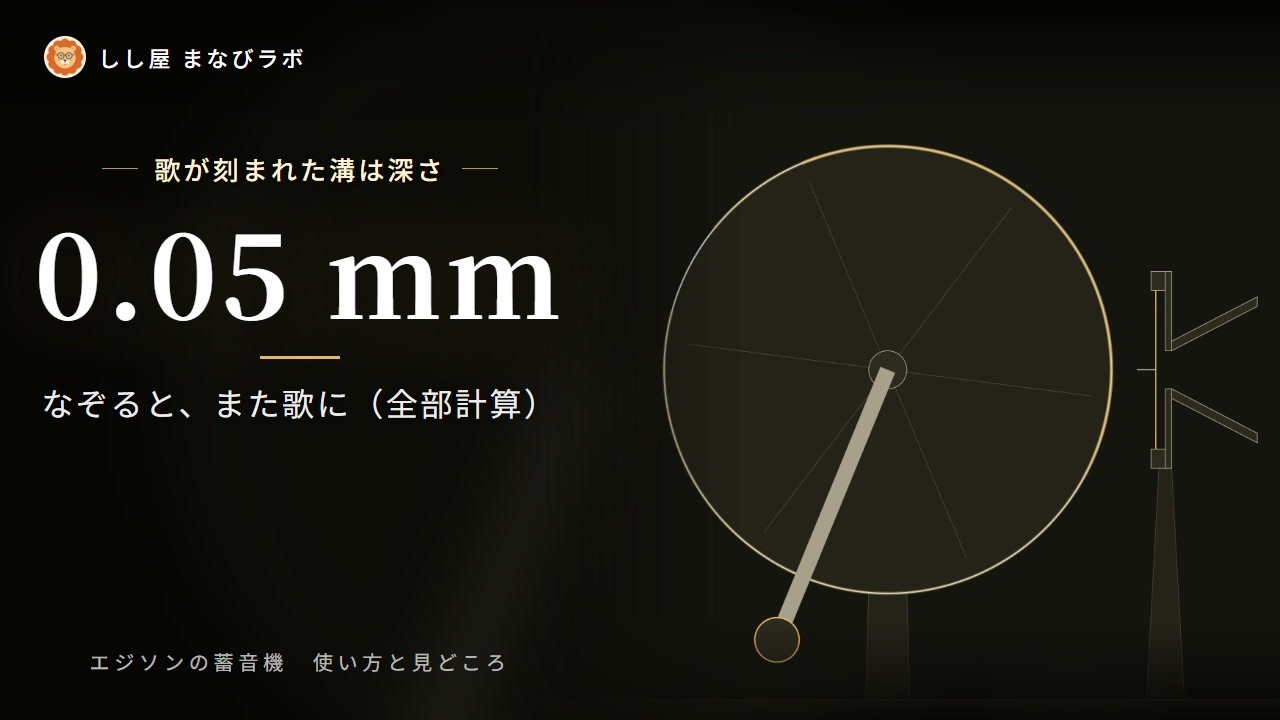
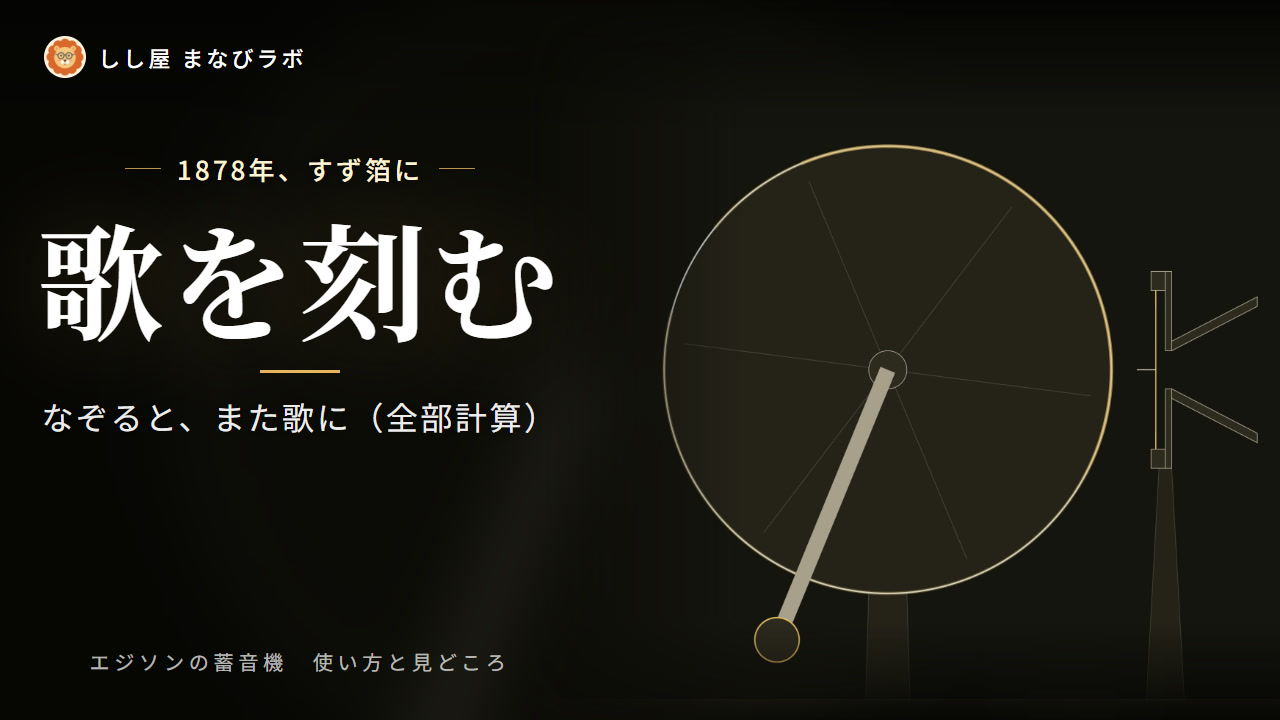
エジソンの蓄音機: 紹介動画のサムネイルの言葉を「歌を刻む」に（ユーザーが6案から選んだ）。YouTube の2本も差しかえ

Changed region(s): [[0.0312, 0.3056, 0.4375, 0.6111], [0.0938, 0.2139, 0.3438, 0.275]]

diff --git a/_dev/promo/short-thumbs.js b/_dev/promo/short-thumbs.js
@@ -31,5 +31,5 @@ window.SHORT_THUMBS = {
   'typing-hand':   { name: 'タイピングする手', t: 18, focus: [0.5, 0.36], zoom: 1.35, kicker: 'キーを打つとき、皮ふの下で', big: '骨と筋肉', sub: 'はこう動く（計算した動き）', c1: '#fff0e6', c2: '#ff8a5c' },
   'wave-growth':   { name: '波が育つまで', t: 31, focus: [0.5, 0.42], zoom: 1.3, kicker: '凪の海に風が吹いて', big: '約30時間', sub: 'で育ちきる。高さ 3.1 m', c1: '#fff3d6', c2: '#ffc46b' },
   'crt-pixels':    { name: 'ブラウン管のドット絵', t: 14.35, focus: [0.5, 0.44], zoom: 1.2, wmask: false, kicker: '同じドット絵、左は液晶', big: 'ブラウン管', sub: 'だと、こう見えた（計算で再現）', c1: '#e8fff0', c2: '#7fe0a0' },
-  'phonograph':    { name: 'エジソンの蓄音機', t: 20.3, focus: [0.45, 0.31], zoom: 1.3, kicker: '歌が刻まれた溝は深さ', big: '0.05 mm', sub: 'なぞると、また歌に（全部計算）', c1: '#fff3d6', c2: '#e8b860' }
+  'phonograph':    { name: 'エジソンの蓄音機', t: 20.3, focus: [0.45, 0.31], zoom: 1.3, kicker: '1878年、すず箔に', big: '歌を刻む', sub: 'なぞると、また歌に（全部計算）', c1: '#fff3d6', c2: '#e8b860' },
 };
